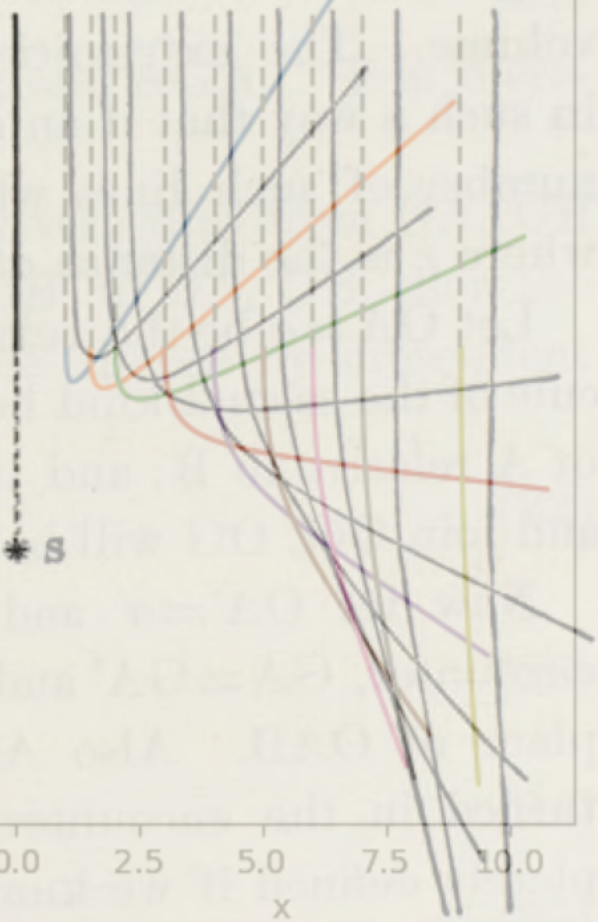
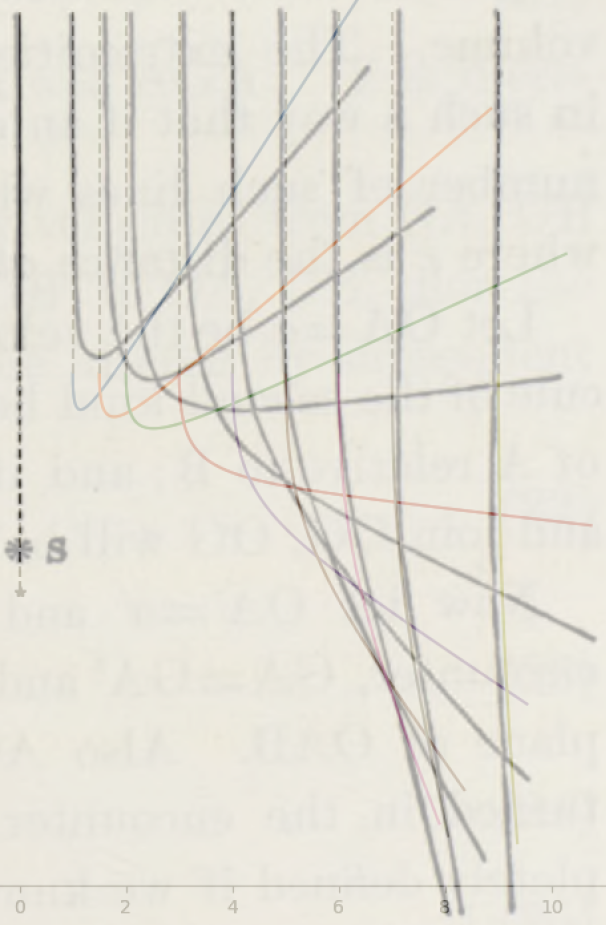
Fix by trial and error the unit/pixel scale in the saved result.png

diff --git a/maxwell_inverse_fifth_power/maxwell_inverse_fifth_power.py b/maxwell_inverse_fifth_power/maxwell_inverse_fifth_power.py
@@ -178,7 +178,7 @@ rranges = (slice(-2, -1, 0.5), slice(900, 1000, 50))
 
 fig, ax = plt.subplots()
 scale = 362/188
-#fig.set_size_inches(scale*6.4,scale*4.8)
+fig.set_size_inches(scale*6.4,scale*4.8)
 # -1.26665 k=1062.093506
 x0s = [1.1, 1.8, 2.3, 3.4, 4.4, 5.3, 6.4, 7.7, 9.7]
 t = np.linspace(0,7,100)
